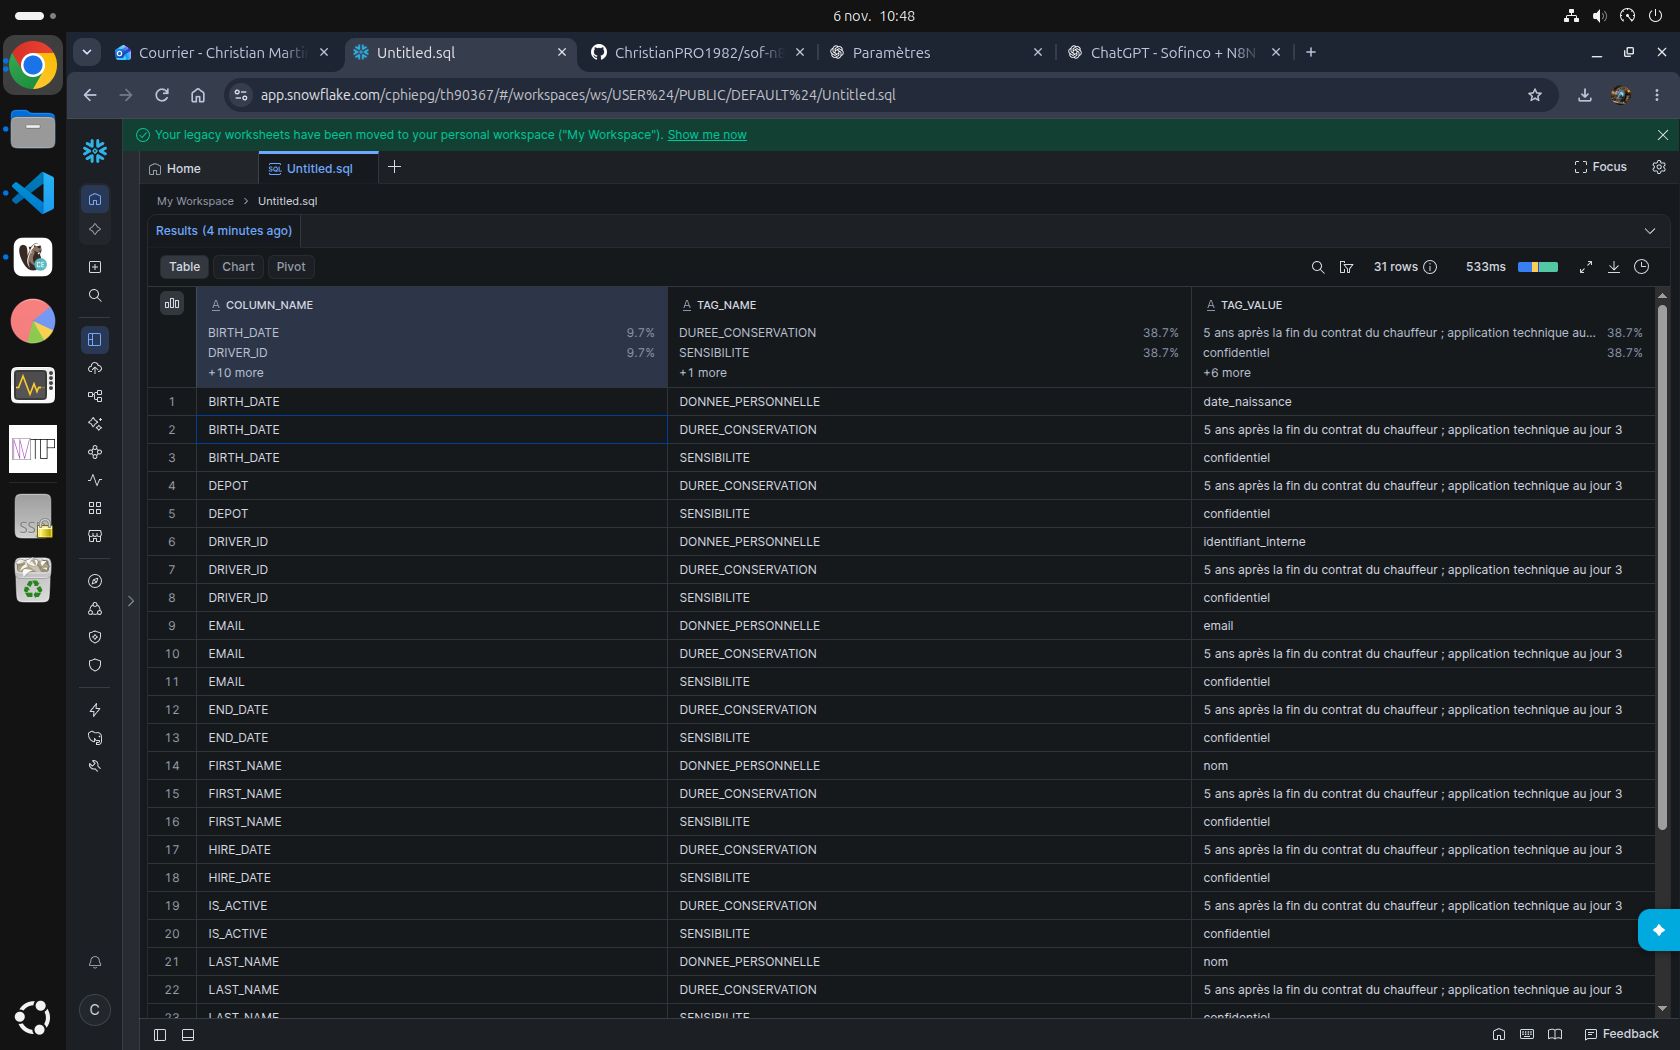
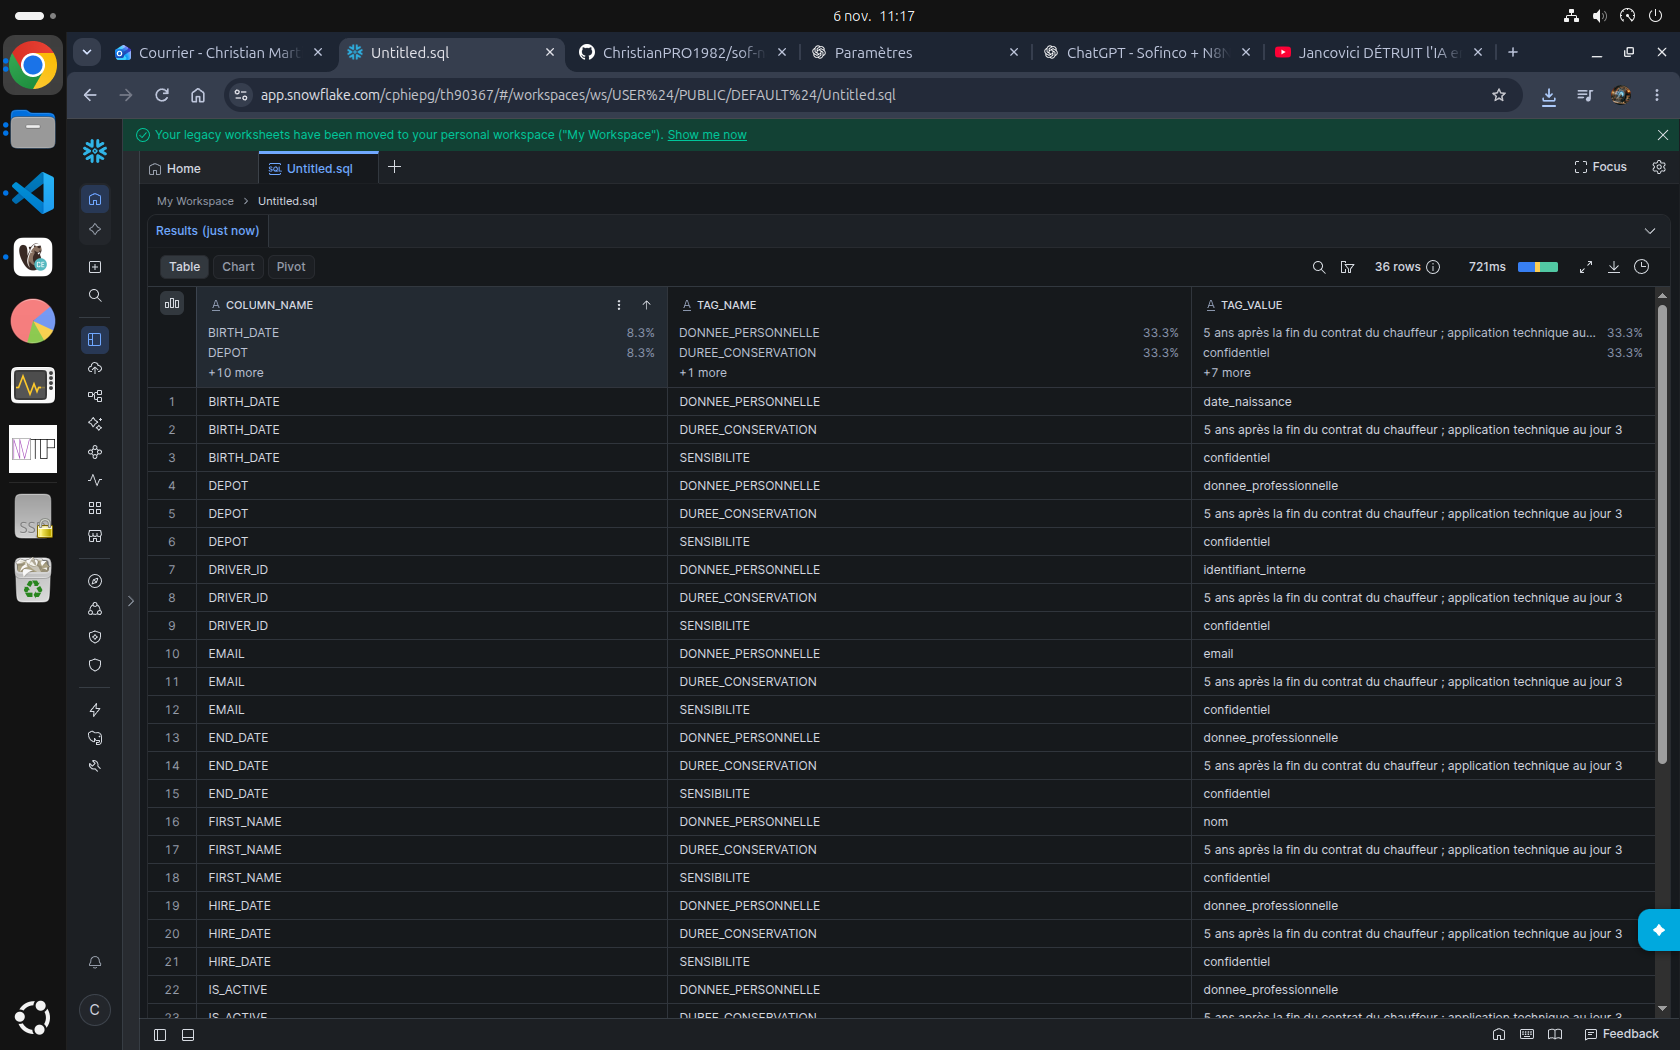
feat: Extend data governance by adding 'donnee_professionnelle' tag to driver-related columns and updating documentation

diff --git a/docs/REGISTRE.md b/docs/REGISTRE.md
@@ -10,9 +10,18 @@
 
 Une donnée décrivant l’activité d’un chauffeur identifiable reste personnelle même sans nom. `driver_id` est un identifiant indirect/pseudonyme, pas une anonymisation. Fondement : [RGPD art. 4(1) et 4(5)](https://www.cnil.fr/fr/reglement-europeen-protection-donnees/chapitre1), consulté le 3 novembre 2026.
 
-### Taxonomie et choix encore ouverts
+### Taxonomie — extension autorisée le 6 novembre 2026
 
-Les tags de cette page sont **prévus**, pas encore confirmés dans Snowflake. Les quatre fiches SQL de `snowflake/rh/catalogue/` préparent les 18 affectations dont la catégorie est établie, y compris `shift_id` et `driver_name`. Le 4 novembre 2026, le titulaire a choisi de garder explicitement à clarifier avec le formateur les catégories professionnelles manquantes ; aucune valeur non autorisée ni catégorie de substitution n’est ajoutée. Ces colonnes restent dans le périmètre personnel et la couverture du tag est donc partielle. Les valeurs autorisées du contrat sont `nom`, `email`, `telephone`, `date_naissance`, `identifiant_officiel`, `identifiant_interne`. La mention **« à clarifier » n’est pas une valeur SQL** : le contrat ne prévoit aucune catégorie explicite pour les données professionnelles indirectes. Ne pas leur attribuer arbitrairement `identifiant_interne`, car cela pourrait les faire bénéficier de l’exception de visibilité prévue pour `driver_id`. Signaler ce manque au formateur et au référent gouvernance, tout en incluant ces données dans la conservation et l’analyse des accès.
+Le titulaire a autorisé l’ajout de `donnee_professionnelle` aux six valeurs du contrat pour couvrir les données professionnelles liées à un chauffeur identifiable. Cette adaptation est documentée ici sans modifier le contrat pédagogique. Les 18 affectations initiales et les 20 nouvelles affectations sont appliquées : le titulaire confirme le 6 novembre 2026 que tous les scripts passent et que le contrôle affiche 38 lignes, avec les compteurs de descriptions inchangés (5 tables et 28 colonnes). Le script `01_gouvernance.sql` met à jour le tag existant avec ALTER TAG, sans le recréer.
+
+| Table | Colonnes classées `donnee_professionnelle` |
+|---|---|
+| RAW.DRIVERS | depot, hire_date, end_date |
+| MARTS.DIM_DRIVER | depot, hire_date, end_date, is_active, tenure_years |
+| RAW.DRIVER_SHIFTS | shift_date, depot, start_hour, hours_worked, trips_count, revenue_usd |
+| MARTS.MART_DRIVER_MONTHLY | activity_month, depot, nb_shifts, hours_worked, trips_count, revenue_usd |
+
+Les identifiants, noms et coordonnées conservent leurs catégories existantes. Les métadonnées techniques de fichier et de chargement restent hors du tag personnel, selon l’inventaire ci-dessous, mais sont supprimées avec la ligne. Le tag ne définit pas à lui seul les accès : au jour 2, prévoir les types texte, date, nombre et booléen et la compatibilité du dépôt avec le filtre de lignes. Les mesures d’activité doivent rester utilisables selon les besoins métier du contrat ; cette catégorie n’implique pas de les masquer toutes automatiquement.
 
 ### `drivers.csv` — 400 lignes, 10 colonnes
 
@@ -25,9 +34,9 @@ Les tags de cette page sont **prévus**, pas encore confirmés dans Snowflake. L
 | `phone` | numéro de démonstration | Identifiant direct | `telephone` | Paie et responsable du dépôt : contact opérationnel |
 | `birth_date` | `AAAA-MM-JJ` | Identifiant indirect | `date_naissance` | Paie : justification RH à confirmer ; analyste : année seulement selon le contrat |
 | `tlc_license_number` | format de licence TLC | Identifiant direct par rapprochement avec le registre public | `identifiant_officiel` | Paie/RH : identification professionnelle ; pipeline : contrôle d’unicité ; publicité de la licence ≠ libre accès dans l’entrepôt |
-| `depot` | `Queens` | Donnée personnelle indirecte de rattachement dans cette table | À clarifier | Paie : affectation ; responsables : leur périmètre ; analyste : activité par dépôt ; filtre de lignes |
-| `hire_date` | `AAAA-MM-JJ` | Donnée professionnelle indirecte | À clarifier | RH/paie : gestion du contrat ; pipeline : ancienneté et cohérence des dates ; nécessité pour les autres rôles à examiner |
-| `end_date` | date ou champ vide | Donnée professionnelle indirecte | À clarifier | RH/paie : départ ; pipeline : statut et calcul de la purge ; vide = en poste |
+| `depot` | `Queens` | Donnée personnelle indirecte de rattachement dans cette table | `donnee_professionnelle` | Paie : affectation ; responsables : leur périmètre ; analyste : activité par dépôt ; filtre de lignes |
+| `hire_date` | `AAAA-MM-JJ` | Donnée professionnelle indirecte | `donnee_professionnelle` | RH/paie : gestion du contrat ; pipeline : ancienneté et cohérence des dates ; nécessité pour les autres rôles à examiner |
+| `end_date` | date ou champ vide | Donnée professionnelle indirecte | `donnee_professionnelle` | RH/paie : départ ; pipeline : statut et calcul de la purge ; vide = en poste |
 
 ### `driver_shifts.csv` — 25 951 lignes, 8 colonnes
 
@@ -35,12 +44,12 @@ Les tags de cette page sont **prévus**, pas encore confirmés dans Snowflake. L
 |---|---|---|---|---|
 | `shift_id` | `Sxxxxxx` | Identifiant indirect d’un événement lié à une personne | `identifiant_interne` (aucune exception automatique de visibilité) | Pipeline : contrôle d’unicité et déduplication ; absent des MARTS fournis |
 | `driver_id` | `Dxxxx` | Identifiant indirect du chauffeur | `identifiant_interne` | Pipeline : rattachement ; métier : compter/joindre sans nommer |
-| `shift_date` | `AAAA-MM-JJ` | Activité professionnelle indirectement identifiante | À clarifier | Pipeline : mois d’activité ; paie et analyse : période de travail |
-| `depot` | `Bronx` | Lieu de travail rattaché à une personne | À clarifier | Pipeline : regroupement ; responsables : périmètre ; analyse par dépôt |
-| `start_hour` | heure entière | Horaire individuel, indirect | À clarifier | Organisation d’un service ; aucun usage dans les MARTS fournis, collecte à justifier |
-| `hours_worked` | nombre décimal | Mesure individuelle de travail, indirecte | À clarifier | Paie, dépôt et analyste : volumes de travail, agrégés mensuellement |
-| `trips_count` | entier | Mesure individuelle d’activité, indirecte | À clarifier | Dépôt et analyste : activité ; besoin paie à confirmer |
-| `revenue_usd` | montant décimal | Mesure individuelle de recette, indirecte | À clarifier | Analyse et suivi métier ; besoin d’accès individuel à justifier |
+| `shift_date` | `AAAA-MM-JJ` | Activité professionnelle indirectement identifiante | `donnee_professionnelle` | Pipeline : mois d’activité ; paie et analyse : période de travail |
+| `depot` | `Bronx` | Lieu de travail rattaché à une personne | `donnee_professionnelle` | Pipeline : regroupement ; responsables : périmètre ; analyse par dépôt |
+| `start_hour` | heure entière | Horaire individuel, indirect | `donnee_professionnelle` | Organisation d’un service ; aucun usage dans les MARTS fournis, collecte à justifier |
+| `hours_worked` | nombre décimal | Mesure individuelle de travail, indirecte | `donnee_professionnelle` | Paie, dépôt et analyste : volumes de travail, agrégés mensuellement |
+| `trips_count` | entier | Mesure individuelle d’activité, indirecte | `donnee_professionnelle` | Dépôt et analyste : activité ; besoin paie à confirmer |
+| `revenue_usd` | montant décimal | Mesure individuelle de recette, indirecte | `donnee_professionnelle` | Analyse et suivi métier ; besoin d’accès individuel à justifier |
 
 Les heures, courses et recettes concernent un chauffeur dès lors qu’elles sont liées à `driver_id`. Les totaux mensuels par chauffeur restent personnels. Ces fichiers ne révèlent pas à première lecture de catégorie particulière de l’article 9 ; aucune telle donnée n’est nécessaire au brief.
 

diff --git a/README.md b/README.md
@@ -139,7 +139,7 @@ Dans Snowsight, exécuter chaque fichier en entier et vérifier ses résultats a
 3. [Modèle DIM_DEPOT](snowflake/gouvernance/modele_catalogue_dim_depot.sql) : TRANSFORMER documente le référentiel non personnel, sensibilité interne, conservation sans limite du référentiel.
 4. [RAW.DRIVERS](snowflake/rh/catalogue/catalogue_raw_drivers.sql), puis [DIM_DRIVER](snowflake/rh/catalogue/catalogue_dim_driver.sql) : fiches complètes, douze colonnes décrites chacune.
 5. [RAW.DRIVER_SHIFTS](snowflake/rh/catalogue/catalogue_raw_driver_shifts.sql), puis [MART_DRIVER_MONTHLY](snowflake/rh/catalogue/catalogue_mart_driver_monthly.sql) : fiches courtes ; `driver_name` porte le tag `nom`.
-6. [Vérification du catalogue](snowflake/rh/catalogue/verification_catalogue.sql) : cinq tables décrites ; 28 colonnes décrites sur les trois fiches complètes ; aucun manque de description ; 18 affectations personnelles attendues avec statut OK ; sensibilité confidentielle et durée de cinq ans après départ sur les quatre tables RH, interne et durée du référentiel sur DIM_DEPOT. Examiner également les droits avec ACCOUNTADMIN.
+6. [Vérification du catalogue](snowflake/rh/catalogue/verification_catalogue.sql) : cinq tables décrites ; 28 colonnes décrites sur les trois fiches complètes ; aucun manque de description ; 38 affectations personnelles attendues avec statut OK (dont 20 professionnelles ajoutées le 6 novembre 2026) ; sensibilité confidentielle et durée de cinq ans après départ sur les quatre tables RH, interne et durée du référentiel sur DIM_DEPOT. Examiner également les droits avec ACCOUNTADMIN.
 7. Rejouer l’installation et les cinq fiches, puis le contrôle : résultats inchangés, aucun objet de données recréé et aucun historique de qualité effacé. Capturer dans Snowsight les tags d’une table (Details), sans lignes de chauffeurs ; enregistrer par exemple `docs/tags_dim_driver.png`. Reporter les résultats réels dans le plan et ACCES.md ; ne cocher l’exécution qu’après confirmation.
 
 Le tag DUREE_CONSERVATION décrit une règle ; il n’applique ni purge ni rétention Time Travel. Ces mécanismes seront installés au jour 3. Les catégories professionnelles absentes de la taxonomie du contrat restent explicitement à clarifier, selon le choix du titulaire : la couverture des tags personnels est partielle, même si les 18 contrôles prévus passent. Voir [REGISTRE.md](docs/REGISTRE.md). `identifiant_interne` n’accordera pas automatiquement de visibilité : l’exception prévue au jour 2 concerne précisément `driver_id`, pas `shift_id`.
@@ -155,4 +155,19 @@ Le modèle DIM_DEPOT utilise désormais les colonnes documentées de [TAG_REFERE
 **Reste à terminer pour l’étape 4 :** rejouer le script d’installation de gouvernance et les cinq fiches, puis le contrôle global, pour confirmer la rejouabilité ; enregistrer une capture réelle des tags d’une table. La couverture des catégories professionnelles reste partielle et à clarifier avec le formateur, conformément au choix du titulaire. Ce contrôle ne valide ni la purge ni les politiques d’accès des jours suivants.
 
 
-**Preuve des tags examinée le 6 novembre 2026 :** [capture partielle DIM_DRIVER](docs/tags_dim_driver.png), 22 premières lignes lisibles montrant les trois types de tags, et [export complet](docs/tags_dim_driver.csv), 31 références de métadonnées sans valeurs de chauffeurs. Après relance, absence de descriptions manquantes confirmée ; compteurs et statuts globaux encore à confirmer. L’écart de taxonomie reste ouvert.
+**Preuve des tags examinée le 6 novembre 2026 :** [capture partielle DIM_DRIVER](docs/tags_dim_driver.png), 22 premières lignes lisibles montrant les trois types de tags, et [export complet](docs/tags_dim_driver.csv), 31 références de métadonnées sans valeurs de chauffeurs. Après relance, le titulaire confirme le 6 novembre 2026 : aucune description manquante, 5 tables décrites sur 5, 28 colonnes décrites sur 28 et 18 tags OK sur 18. Rejouabilité validée sur ces résultats. L’écart de taxonomie reste ouvert.
+
+
+### Extension de la taxonomie — décision du 6 novembre 2026
+
+Le titulaire autorise `donnee_professionnelle` pour les dates professionnelles, dépôts, horaires, métriques, statut et ancienneté liés à un chauffeur. Cette décision remplace le maintien de l’écart de taxonomie évoqué dans les états antérieurs ; le contrat fourni reste inchangé. Les scripts sont adaptés, leur déploiement n’est pas encore confirmé.
+
+Exécuter à nouveau `snowflake/gouvernance/01_gouvernance.sql`, puis les quatre fiches `catalogue_raw_drivers.sql`, `catalogue_dim_driver.sql`, `catalogue_raw_driver_shifts.sql` et `catalogue_mart_driver_monthly.sql`, puis `verification_catalogue.sql`. Attendu : 38 tags personnels OK (10 + 12 + 8 + 8), toujours 5 tables décrites et 28 colonnes décrites. Les 20 nouvelles affectations sont détaillées dans le registre. La capture et le CSV actuels attestent l’état précédent à sept tags personnels sur DIM_DRIVER ; les actualiser après validation (12 tags personnels, soit 36 références au total sur DIM_DRIVER).
+
+L’extension du tag existant utilise [ALTER TAG SET ALLOWED_VALUES](https://docs.snowflake.com/en/sql-reference/sql/alter-tag), ce qui permet de conserver le tag et ses affectations. Au jour 2, tenir compte des types DATE, NUMBER/FLOAT et BOOLEAN et de la colonne depot utilisée par la future politique d’accès par ligne. Les règles de masquage devront suivre les besoins d’accès métier du contrat.
+
+
+**Extension appliquée le 6 novembre 2026 :** le titulaire confirme la réussite de tous les scripts et les compteurs attendus au contrôle : 5 tables, 28 colonnes et 38 tags personnels. La case de taggage complet est cochée dans le plan. Le fichier PNG et le CSV existants montrent l’état antérieur ; les actualiser pour inclure les données professionnelles (DIM_DRIVER : 12 tags personnels, 36 références au total).
+
+
+**Preuves renouvelées vérifiées le 6 novembre 2026 :** `docs/tags_dim_driver.csv` contient 36 références : 12 DONNEE_PERSONNELLE, 12 DUREE_CONSERVATION et 12 SENSIBILITE. Les cinq affectations donnee_professionnelle attendues sont présentes sur DEPOT, HIRE_DATE, END_DATE, IS_ACTIVE et TENURE_YEARS. La capture `docs/tags_dim_driver.png` renouvelée est lisible, affiche 36 lignes au total et montre la nouvelle catégorie sur les premières lignes. Elle complète le CSV intégral. Ces preuves remplacent les anciens fichiers à 31 références. Étape 4 terminée avec l’extension de taxonomie autorisée par le titulaire et documentée, sans modification du contrat fourni.

diff --git a/docs/ACCES.md b/docs/ACCES.md
@@ -56,6 +56,14 @@ Sources vérifiées le 4 novembre 2026 : [privilèges Snowflake](https://docs.sn
 
 **Rejouabilité de l’installation de gouvernance confirmée le 6 novembre 2026 :** après relance de `snowflake/gouvernance/01_gouvernance.sql`, le titulaire transmet les trois tags avec leurs dates de création initiales et les valeurs autorisées inchangées, la structure conforme de QUALITE_RESULTATS, les propriétaires et droits attendus pour GOUVERNANCE et TRANSFORMER, puis NB_MESURES = 0. Cette relance est validée sur ces résultats ; la conservation de mesures préexistantes n’est pas testée puisque la table est vide. La relance des cinq fiches, le nouveau contrôle global et la capture restent à confirmer.
 
+**Clôture des vérifications de l’étape 4 le 6 novembre 2026 :** après relance des scripts, le titulaire confirme aucune description manquante, 5 tables décrites sur 5, 28 colonnes décrites sur 28 et 18 tags personnels OK sur 18. Capture `docs/tags_dim_driver.png` examinée et export complet `docs/tags_dim_driver.csv` vérifié. Rejouabilité confirmée sur ces résultats. L’écart de taxonomie professionnelle reste à clarifier ; aucune politique métier n’est validée par ces contrôles.
+
+**Extension autorisée le 6 novembre 2026 — état actuel :** le titulaire accepte `donnee_professionnelle`. Cette décision remplace le maintien de l’écart dans les états précédents. Tag existant, quatre fiches, inventaire et contrôle global adaptés localement : 20 affectations supplémentaires, 38 attendues au total. Déploiement et contrôle Snowflake restent à confirmer ; la case de taggage intégral reste ouverte jusqu’à réception des 38 statuts OK. Après validation, actualiser les preuves DIM_DRIVER (12 tags personnels, 36 références au total).
+
+**Extension appliquée — confirmation du titulaire le 6 novembre 2026 :** tous les scripts passent et le contrôle affiche les quantités attendues : 5 tables, 28 colonnes et 38 lignes pour les tags personnels. Les deux propriétés du tag ont été modifiées par des ALTER TAG séparés. La case de taggage intégral est cochée sur cette confirmation. Le classement professionnel est désormais appliqué ; le contrat pédagogique reste inchangé, l’adaptation étant documentée. Le titulaire confirme ici la réussite et les quantités ; aucun nouveau tableau détaillé des statuts n’a été transmis. Les preuves PNG/CSV conservées décrivent l’ancien état de DIM_DRIVER (7 tags personnels, 31 références) et restent à actualiser pour l’extension (12 tags personnels, 36 références).
+
+**Preuves renouvelées vérifiées le 6 novembre 2026 :** `docs/tags_dim_driver.csv` contient 36 références : 12 DONNEE_PERSONNELLE, 12 DUREE_CONSERVATION et 12 SENSIBILITE. Les cinq affectations donnee_professionnelle attendues sont présentes sur DEPOT, HIRE_DATE, END_DATE, IS_ACTIVE et TENURE_YEARS. La capture `docs/tags_dim_driver.png` renouvelée est lisible, affiche 36 lignes au total et montre la nouvelle catégorie sur les premières lignes. Elle complète le CSV intégral. Ces preuves remplacent les anciens fichiers à 31 références. Étape 4 terminée avec l’extension de taxonomie autorisée par le titulaire et documentée, sans modification du contrat fourni.
+
 ## Partie 2 — Cahier de tests
 
 Décidez d'abord à quoi ressemble une valeur masquée pour chaque type de colonne (texte, date) et notez-le ici : ______. Puis remplissez en deux temps : la colonne « attendu » **avant** d'écrire les politiques, à partir de la matrice du contrat ; la colonne « obtenu » après, en exécutant la requête avec le rôle indiqué (`USE ROLE ...`).
